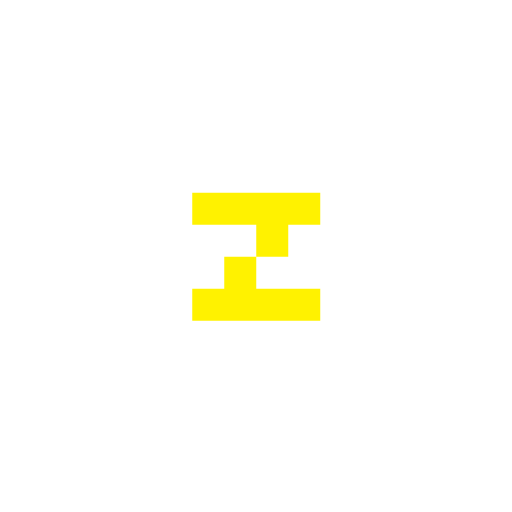
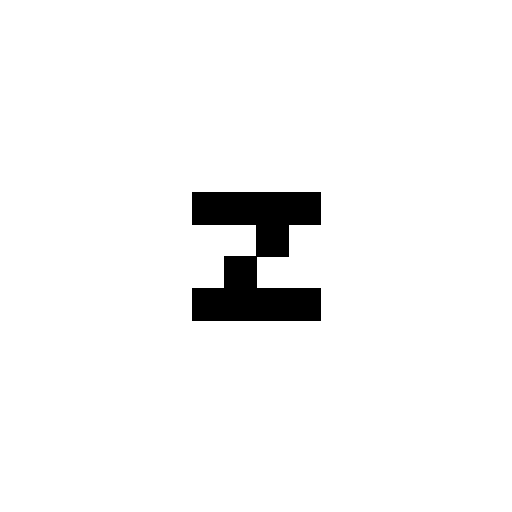
Z to black New background

Changed region(s): [[0.375, 0.375, 0.625, 0.625]]

diff --git a/index.html b/index.html
@@ -27,23 +27,13 @@
         var colours = ["#ea0000", "#00a700", "#6565ff"];
         var colour_index = Math.floor(Math.random() * (colours.length-1)) + 1;
 
-        var backgrounds = [
-          "img/Abstract.jpg",
-          "img/back1.jpg",
-          "img/cf7e458.jpg",
-          "img/dark-mode.jpg",
-          "img/Grey-lines.jpg",
-          "img/K7tq1CL.jpg",
-          "img/wallpap.jpg",
-          ];
-      
         var now = new Date();
         var start = new Date(now.getFullYear(), 0, 0);
         var diff = now - start;
         var oneDay = 1000 * 60 * 60 * 24;
         var day = Math.floor(diff / oneDay);
 
-        background = backgrounds[day % backgrounds.length];
+        background = "img/Grey-lines.jpg";
       
         var picChangeInterval = setInterval(picChange, 4096);
         

diff --git a/style.css b/style.css
@@ -21,7 +21,7 @@ body {
   max-width: 400px;
   min-width: 400px;
   height: 150px;
-  background: url("img/cf7e458.jpg");
+  background: url("img/Grey-lines.jpg");
   background-color: black;
   background-size: cover;
   background-position: center center;
